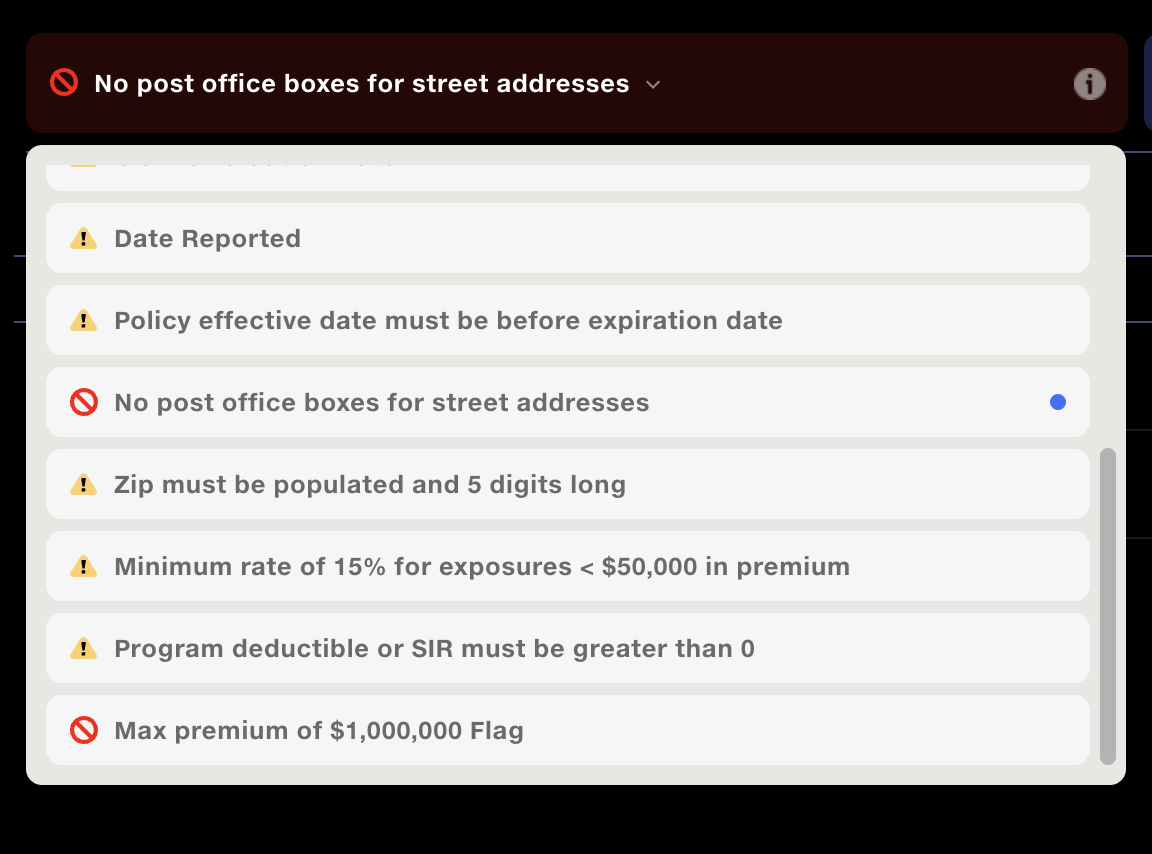
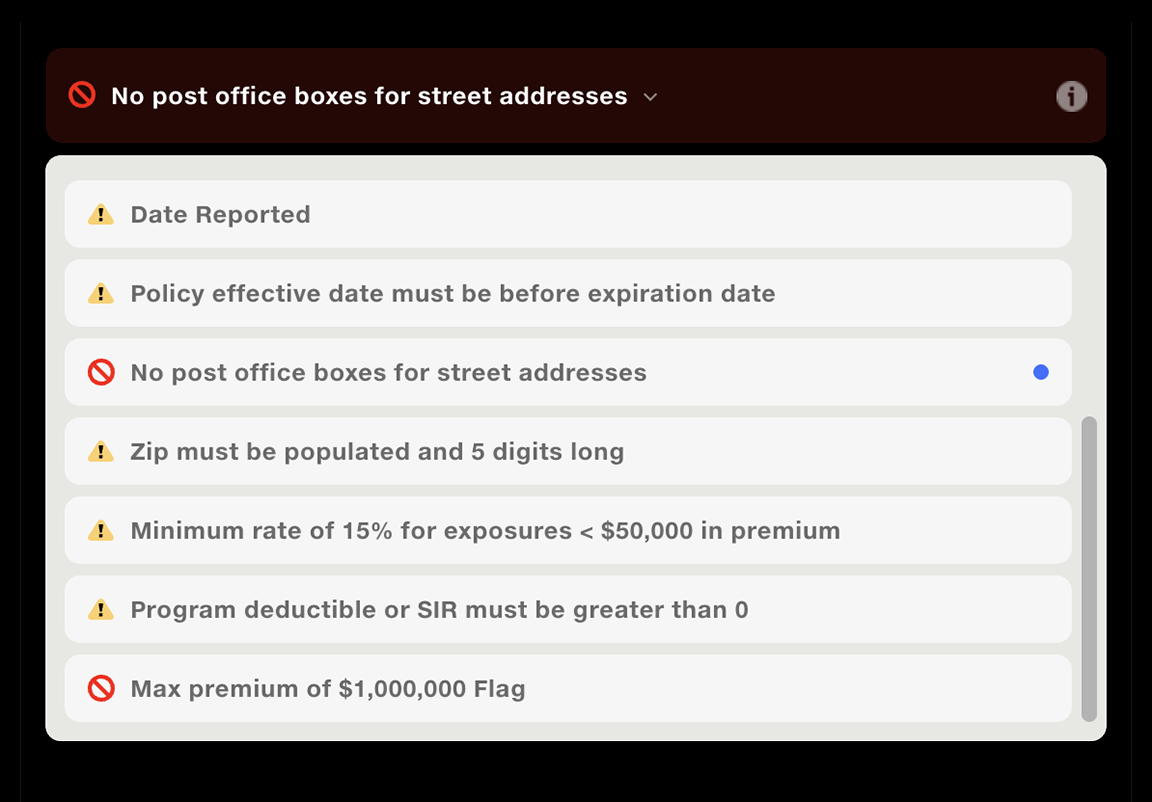
Validation: updated rule navigator screenshot

Changed region(s): [[0.0, 0.0312, 1.0, 0.9352]]

diff --git a/case-studies/validation.html b/case-studies/validation.html
@@ -2282,7 +2282,7 @@
           </div>
           <div class="kd-slide" id="iw-navigation" role="group" aria-roledescription="slide" aria-label="3 of 3">
             <figure class="figure kd-media">
-              <img src="media/rule-navigator.png" width="1152" height="854" alt="The rule navigator dropdown over the data grid, listing every validation rule with its fail or warning icon, the current rule marked with a dot.">
+              <img src="media/rule-navigator.png" width="1152" height="802" alt="The rule navigator dropdown over the data grid, listing every validation rule with its fail or warning icon, the current rule marked with a dot.">
             </figure>
             <div class="kd-text">
               <p class="kd-num" aria-hidden="true">03</p>
